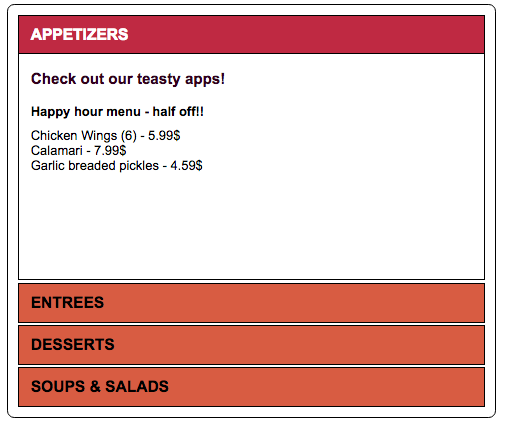
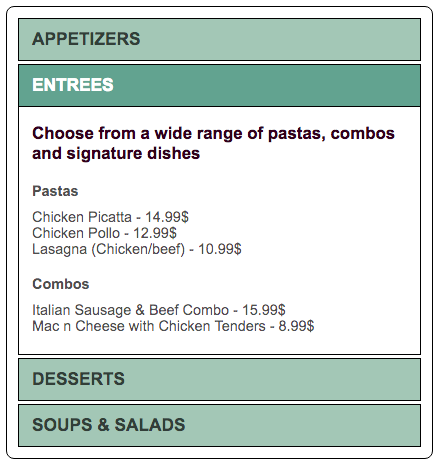
Update Project: Accordion

diff --git a/index.html b/index.html
@@ -9,6 +9,7 @@
   <link rel="stylesheet" type="text/css" href="css/btn.css">
   <link rel="stylesheet" type="text/css" href="css/calculator.css">
   <link rel="stylesheet" type="text/css" href="css/tabs.css">
+  <link rel="stylesheet" type="text/css" href="css/accordion.css">
   <script type="text/javascript" src="script.js"></script>
   <link rel="stylesheet" href="fonts/font-awesome/css/font-awesome.min.css">
   <link rel="stylesheet" href="fonts/icon_style.css">
@@ -142,8 +143,8 @@
       <input type="radio" name="tabs" value="pj3" id="pj-3">
       <input type="radio" name="tabs" value="pj4" id="pj-4">
       <input type="radio" name="tabs" value="pj5" id="pj-5">
-      <input type="radio" name="tabs" value="pj6" id="pj-6" checked>
-      <input type="radio" name="tabs" value="pj7" id="pj-7">
+      <input type="radio" name="tabs" value="pj6" id="pj-6">
+      <input type="radio" name="tabs" value="pj7" id="pj-7" checked>
       <input type="radio" name="tabs" value="pj8" id="pj-8">
 
       <div class="projects__nav">
@@ -764,10 +765,72 @@
             </div>
 
             <div class="carousel__slides">
-              <img src="images/accordion.png" class="carousel__slide-1">
-              <img src="images/accordion.gif" class="carousel__slide-2">
+              <img src="images/accordion-copy.png" class="carousel__slide-1">
+              <img src="images/accordion-copy.gif" class="carousel__slide-2">
               <div class="carousel__slide-3 carousel__slide-live">
-                Live demo goes here
+                <p>Live Demo</p>
+                <div class="live-demo live-demo--accordion">
+                  <div class="pj-accordion">
+                    <ul>
+                      <!-- Item 1 -->
+                      <li>
+                        <input type="radio" name="accordion-item" class="accordion-item" id="appetizers">
+                        <label for="appetizers">Appetizers</label>
+                        <div class="accordion-content">
+                          <h3>Check out our teasty apps!</h3>
+                          <h4>Happy hour menu - half off!!</h4>
+                          <p>Chicken Wings (6) - 5.99$</p>
+                          <p>Calamari - 7.99$</p>
+                          <p>Garlic breaded pickles - 4.59$</p>
+                        </div>
+                      </li>
+
+                      <!-- Item 2 -->
+                      <li>
+                        <input type="radio" name="accordion-item" class="accordion-item" id="entrees">
+                        <label for="entrees">Entrees</label>
+                        <div class="accordion-content">
+                          <h3>Choose from a wide range of pastas, combos and signature dishes</h3>
+                          <h4>Pastas</h4>
+                          <p>Chicken Picatta - 14.99$</p>
+                          <p>Chicken Pollo - 12.99$</p>
+                          <p>Lasagna (Chicken/beef) - 10.99$</p>
+                          <h4>Combos</h4>
+                          <p>Italian Sausage & Beef Combo - 15.99$</p>
+                          <p>Mac n Cheese with Chicken Tenders - 8.99$</p>
+                        </div>
+                      </li>
+
+                      <!-- Item 3 -->
+                      <li>
+                        <input type="radio" name="accordion-item" class="accordion-item" id="desserts">
+                        <label for="desserts">Desserts</label>
+                        <div class="accordion-content">
+                          <h3>New Summer Specials!!</h3>
+                          <h4>Shakes and Ice Creams</h4>
+                          <p>Turtle Caramel Shake - 6.99$</p>
+                          <p>Chocolate Brownie Bite - 4.99$</p>
+                        </div>
+                      </li>
+
+                      <!-- Placeholder for Item 4 -->
+                      <li>
+                        <input type="radio" name="accordion-item" class="accordion-item" id="soupsalad">
+                        <label for="soupsalad">Soups & Salads</label>
+                        <div class="accordion-content">
+                          <h3>New Soup & Salad Combo available now! Only $6.99!</h3>
+                          <p>Your choice of a cup of soup paired with a side salad</p>
+                          <h4>Salads</h4>
+                          <p>Pesto Portobello - 7.99$</p>
+                          <p>Romaine & Kale Caesar Salad - 6.99$</p>
+                          <h4>Soups</h4>
+                          <p>New England Clam Chowder (bowl) - 4.99$</p>
+                          <p>Minestrone (bowl) - 4.99$</p>
+                        </div>
+                      </li>
+                    </ul>
+                  </div>
+                </div>
               </div>
             </div>
 

diff --git a/css/main.css b/css/main.css
@@ -928,13 +928,13 @@ hr {
 }
 
 /* add more projects here */
-.section__content-projects input:nth-of-type(1):checked ~ .projects__nav label:nth-of-type(1),
-.section__content-projects input:nth-of-type(2):checked ~ .projects__nav label:nth-of-type(2),
-.section__content-projects input:nth-of-type(3):checked ~ .projects__nav label:nth-of-type(3),
-.section__content-projects input:nth-of-type(4):checked ~ .projects__nav label:nth-of-type(4),
-.section__content-projects input:nth-of-type(5):checked ~ .projects__nav label:nth-of-type(5),
-.section__content-projects input:nth-of-type(6):checked ~ .projects__nav label:nth-of-type(6),
-.section__content-projects input:nth-of-type(7):checked ~ .projects__nav label:nth-of-type(7),
+.section__content-projects > input:nth-of-type(1):checked ~ .projects__nav label:nth-of-type(1),
+.section__content-projects > input:nth-of-type(2):checked ~ .projects__nav label:nth-of-type(2),
+.section__content-projects > input:nth-of-type(3):checked ~ .projects__nav label:nth-of-type(3),
+.section__content-projects > input:nth-of-type(4):checked ~ .projects__nav label:nth-of-type(4),
+.section__content-projects > input:nth-of-type(5):checked ~ .projects__nav label:nth-of-type(5),
+.section__content-projects > input:nth-of-type(6):checked ~ .projects__nav label:nth-of-type(6),
+.section__content-projects > input:nth-of-type(7):checked ~ .projects__nav label:nth-of-type(7),
 .section__content-projects input:nth-of-type(8):checked ~ .projects__nav label:nth-of-type(8) {
   background-color: rgba(238,238,238,0.8);
   color: #00897B;
@@ -942,14 +942,14 @@ hr {
 }
 
 /* add more projects here */
-.section__content-projects input:nth-of-type(1):checked ~ .projects__tabs .projects__tabs__content:nth-of-type(1),
-.section__content-projects input:nth-of-type(2):checked ~ .projects__tabs .projects__tabs__content:nth-of-type(2),
-.section__content-projects input:nth-of-type(3):checked ~ .projects__tabs .projects__tabs__content:nth-of-type(3),
-.section__content-projects input:nth-of-type(4):checked ~ .projects__tabs .projects__tabs__content:nth-of-type(4),
-.section__content-projects input:nth-of-type(5):checked ~ .projects__tabs .projects__tabs__content:nth-of-type(5),
-.section__content-projects input:nth-of-type(6):checked ~ .projects__tabs .projects__tabs__content:nth-of-type(6),
-.section__content-projects input:nth-of-type(7):checked ~ .projects__tabs .projects__tabs__content:nth-of-type(7),
-.section__content-projects input:nth-of-type(8):checked ~ .projects__tabs .projects__tabs__content:nth-of-type(8) {
+.section__content-projects > input:nth-of-type(1):checked ~ .projects__tabs .projects__tabs__content:nth-of-type(1),
+.section__content-projects > input:nth-of-type(2):checked ~ .projects__tabs .projects__tabs__content:nth-of-type(2),
+.section__content-projects > input:nth-of-type(3):checked ~ .projects__tabs .projects__tabs__content:nth-of-type(3),
+.section__content-projects > input:nth-of-type(4):checked ~ .projects__tabs .projects__tabs__content:nth-of-type(4),
+.section__content-projects > input:nth-of-type(5):checked ~ .projects__tabs .projects__tabs__content:nth-of-type(5),
+.section__content-projects > input:nth-of-type(6):checked ~ .projects__tabs .projects__tabs__content:nth-of-type(6),
+.section__content-projects > input:nth-of-type(7):checked ~ .projects__tabs .projects__tabs__content:nth-of-type(7),
+.section__content-projects > input:nth-of-type(8):checked ~ .projects__tabs .projects__tabs__content:nth-of-type(8) {
   display: block;
   background-color: rgba(238,238,238,0.8);
 }

diff --git a/css/accordion.css b/css/accordion.css
@@ -1,0 +1,136 @@
+.pj-accordion {
+  font-size: 10px;
+  color: rgba(0,0,0,0.7);
+  border: 1px solid black;
+  border-radius: 8px;
+  width: 90%;
+  font-family: arial, sans-serif;
+  margin: 0 auto;
+  background-color: #fff;
+  text-align: left;
+}
+
+.pj-accordion ul {
+  width: 100%;
+  margin: 0;
+  padding: 8px;
+  list-style: none;
+}
+
+.pj-accordion li {
+  border: 1px solid black;
+  margin: 3px;
+}
+
+.pj-accordion li input {
+  display: none;
+}
+
+.pj-accordion li label {
+  background-color: #a3c7b6;
+  display: block;
+  font-size: 1.2em;
+  font-weight: bolder;
+  /*background-color: #D85C42;*/
+  padding: 8px 13px;
+  text-align: left;
+  line-height: 1.5em;
+  text-transform: uppercase;
+  -webkit-transition: color 0.5s, background-color 0.5s;
+  -moz-transition: color 0.5s, background-color 0.5s;
+  -ms-transition: color 0.5s, background-color 0.5s;
+  -o-transition: color 0.5s, background-color 0.5s;
+  transition: color 0.5s, background-color 0.5s;
+
+  -moz-transition-timing-function: ease-out;
+  -webkit-transition-timing-function: ease-out;
+  -o-transition-timing-function: ease-out;
+  transition-timing-function: ease-out;
+}
+
+.pj-accordion li .accordion-content {
+  max-height: 0;
+  padding: 0 13px;
+  overflow-y: hidden;
+  -webkit-transition: max-height 0.5s ease-out;
+  -moz-transition: max-height 0.5s ease-out;
+  -ms-transition: max-height 0.5s ease-out;
+  -o-transition: max-height 0.5s ease-out;
+  transition: max-height 0.5s ease-out;
+}
+
+/* give space between the last p and the .accordion-content border */
+.pj-accordion li .accordion-content p:last-of-type {
+  margin-bottom: 20px;
+}
+
+.pj-accordion li input:checked + label {
+  background-color: #62a390;
+  /*background-color: #BF2942;*/
+  color: white;
+  border-bottom: 1px solid black;
+}
+
+.pj-accordion li input:checked ~ .accordion-content:first-of-type {
+  max-height: 200px;
+}
+
+.pj-accordion li .accordion-content h3 {
+  color: #33001a;
+}
+
+.pj-accordion li .accordion-content h4 {
+  margin-bottom: 10px;
+}
+
+.pj-accordion li .accordion-content p {
+  margin: 0;
+}
+
+/*@media (max-width: 1024px) {*/
+  /*.pj-accordion {*/
+    /*width: 100%;*/
+    /*max-width: 750px;*/
+  /*}*/
+
+  /*.pj-accordion li label {*/
+    /*background-color: #EEEEEE;*/
+  /*}*/
+
+  /*.pj-accordion li input:checked + label {*/
+    /*background-color: #000;*/
+  /*}*/
+/*}*/
+
+/*@media (max-width: 600px) {*/
+  /*.pj-accordion {*/
+    /*font-size: 0.9em;*/
+    /*width: 100%;*/
+  /*}*/
+
+  /*.pj-accordion li label {*/
+    /*background-color: #a3c7b6;*/
+  /*}*/
+
+  /*.pj-accordion li input:checked + label {*/
+    /*background-color: #62a390;*/
+  /*}*/
+/*}*/
+
+/*@media (max-width: 360px) and (orientation: portrait) {*/
+  /*.pj-accordion {*/
+    /*font-size: 0.85em;*/
+    /*width: 100%;*/
+  /*}*/
+
+  /*.pj-accordion li label {*/
+    /*background-color: lightcyan;*/
+  /*}*/
+
+  /*.pj-accordion li input:checked + label {*/
+    /*background-color: lightskyblue;*/
+  /*}*/
+/*}*/
+
+
+
